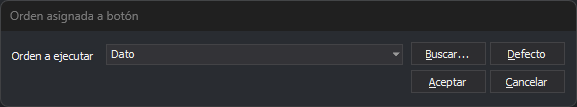
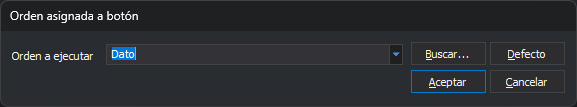
Orden asignada a boton: captura nueva y enlace a Buscar orden

diff --git a/src/digi3d-ai/referencia/cuadros-de-dialogo/programar-botones.md b/src/digi3d-ai/referencia/cuadros-de-dialogo/programar-botones.md
@@ -23,7 +23,7 @@ Selecciona la opción del menú **Herramientas/Programar botones...**. La opció
 Este cuadro de diálogo lo abren **Programar botones** y el botón **Configurar bot.** del cuadro de diálogo [Configuración de dispositivos de entrada](configuracion-de-dispositivos-de-entrada.md).
 
 * **Orden a ejecutar**: la orden que ejecuta el botón, o una de estas acciones: **Dato**, **Tentativo**, **Cancelar**, **Combinar** y **Embrague**. Puedes escribir el nombre de cualquier orden.
-* **Buscar...**: abre el cuadro de diálogo de búsqueda de órdenes, para elegir una orden por su nombre o su descripción.
+* **Buscar...**: abre el cuadro de diálogo [Buscar orden](buscar-orden.md), para elegir una orden por su nombre o su descripción.
 * **Defecto**: devuelve al botón su acción por defecto.
 * **Aceptar**: guarda la asignación.
 * **Cancelar**: cierra el cuadro de diálogo sin cambiar la asignación.
